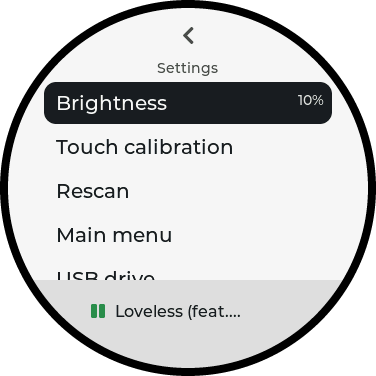
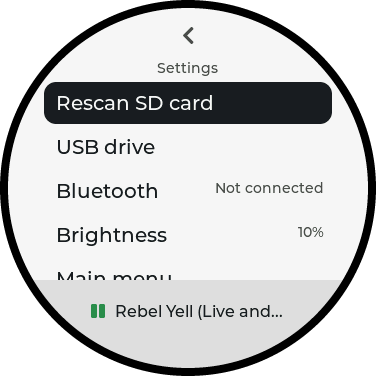
Order Settings by how often a row is wanted, and name what Rescan scans
Rescan SD card, USB drive, Bluetooth, Brightness, Main menu, Touch
calibration, About. "Rescan" alone did not say what it scans.

diff --git a/lib/ui/ScreenManagerMenu.cpp b/lib/ui/ScreenManagerMenu.cpp
@@ -249,33 +249,14 @@ void ScreenManager::goHome() {
 
 // Settings' rows. A table, so adding one never renumbers the handler for
 // the rows after it -- which is exactly what the two ADR 0018 rows would
-// otherwise have done to USB drive.
+// otherwise have done to USB drive. Ordered by how often a row is wanted:
+// the card first (rescan, copy over USB), then Bluetooth, then what is
+// set once; About last.
 const ScreenManager::SettingsRow
     ScreenManager::kSettingsRows[ScreenManager::kSettingsRowCount] = {
-        {"Brightness",
-         [](ScreenManager &self) {
-           self.tabs_.activeStack().push(Screen{ScreenKind::Brightness, {}});
-           self.render();
-         },
-         [](const ScreenManager &self) {
-           return std::to_string(self.brightness_.percent()) + "%";
-         }},
-        {"Touch calibration",
-         [](ScreenManager &self) {
-           self.touchCalibration_.start(millis());
-           self.tabs_.activeStack().push(
-               Screen{ScreenKind::TouchCalibration, {}});
-           self.render();
-         }},
-        {"Rescan",
+        {"Rescan SD card",
          [](ScreenManager &self) {
            self.tabs_.activeStack().push(Screen{ScreenKind::RescanPicker, {}});
-           self.render();
-         }},
-        {"Main menu",
-         [](ScreenManager &self) {
-           self.tabs_.activeStack().push(
-               Screen{ScreenKind::MenuVisibility, {}});
            self.render();
          }},
         {"USB drive", [](ScreenManager &self) { self.startUsbDrive(); }},
@@ -285,6 +266,27 @@ const ScreenManager::SettingsRow
            self.render();
          },
          [](const ScreenManager &self) { return self.bluetoothSettingsValue(); }},
+        {"Brightness",
+         [](ScreenManager &self) {
+           self.tabs_.activeStack().push(Screen{ScreenKind::Brightness, {}});
+           self.render();
+         },
+         [](const ScreenManager &self) {
+           return std::to_string(self.brightness_.percent()) + "%";
+         }},
+        {"Main menu",
+         [](ScreenManager &self) {
+           self.tabs_.activeStack().push(
+               Screen{ScreenKind::MenuVisibility, {}});
+           self.render();
+         }},
+        {"Touch calibration",
+         [](ScreenManager &self) {
+           self.touchCalibration_.start(millis());
+           self.tabs_.activeStack().push(
+               Screen{ScreenKind::TouchCalibration, {}});
+           self.render();
+         }},
         {"About", [](ScreenManager &self) { self.openAbout(); }},
 };
 

diff --git a/lib/ui/ScreenManager.cpp b/lib/ui/ScreenManager.cpp
@@ -608,7 +608,7 @@ std::vector<std::string> ScreenManager::letterKeysFor(
 const char *ScreenManager::emptyListText(const navigation::Screen &screen) const {
   if (screen.kind == ScreenKind::Bluetooth) return bluetoothEmptyText();
   if (screen.kind == ScreenKind::Folder) return "Empty folder";
-  if (library().tracks.empty()) return "Nothing scanned yet\nSettings > Rescan";
+  if (library().tracks.empty()) return "Nothing scanned yet\nSettings > Rescan SD card";
   switch (screen.kind) {
     case ScreenKind::Genres:
       return "No genres in these tags";
@@ -742,7 +742,7 @@ std::string ScreenManager::captionTextFor(
     case ScreenKind::Settings:
       return "Settings";
     case ScreenKind::RescanPicker:
-      return "Rescan";
+      return "Rescan SD card";
     case ScreenKind::MenuVisibility:
       return "Main menu";
     case ScreenKind::Bluetooth:

diff --git a/src/main.cpp b/src/main.cpp
@@ -436,7 +436,7 @@ void setup() {
                        static_cast<unsigned>(state.index.albums.size()),
                        static_cast<unsigned>(state.index.tracks.size()));
       } else {
-        Serial.printf("%s: no cache yet -- use Settings > Rescan to build one.\n",
+        Serial.printf("%s: no cache yet -- use Settings > Rescan SD card to build one.\n",
                        state.profile.label);
       }
     }

diff --git a/scripts/readme-screenshots.py b/scripts/readme-screenshots.py
@@ -222,8 +222,7 @@ def sleep_timer(dev):
 def settings(dev):
     dev.open_from_home("Settings", "Settings")
     dev.shot("settings")
-    dev.knob(5)  # Down to Bluetooth, which then sits in the bottom row.
-    dev.tap(150, 243)
+    dev.tap(150, 190)  # Bluetooth, the third row.
     dev.expect("Bluetooth")
     dev.shot("bluetooth")
 

diff --git a/docs/design/ux-guidelines.md b/docs/design/ux-guidelines.md
@@ -272,7 +272,7 @@ Full architecture: [ADR 0004](../adr/0004-navigation-library-and-index-architect
 - **Settings is a list; each setting has its own screen** when it's set by
   the knob. A row ends in its current value as plain text. Brightness
   applies live while turning, with no confirm step. Maintenance actions
-  (Rescan library) live here, not in content headers. The last row is
+  (Rescan SD card) live here, not in content headers. The last row is
   About: the version, the author, the source address, the licence, the
   no-warranty sentence and what leaves the device (nothing). Its one
   button, a Secondary circle, opens Licences: one row per component,

diff --git a/docs/adr/0010-main-menu-and-settings.md b/docs/adr/0010-main-menu-and-settings.md
@@ -80,6 +80,8 @@ serial; Settings > Touch calibration now re-fits it on the device. Rows:
 Brightness, Touch calibration, Rescan library. *(ADR 0018: the rows are a
 table now — Brightness, Touch calibration, Rescan, Main menu, USB drive —
 and "Rescan library" opens a picker rather than rescanning immediately.)*
+*(2026-10-06: ordered by how often a row is wanted -- Rescan SD card, USB
+drive, Bluetooth, Brightness, Main menu, Touch calibration, About.)*
 
 - **Capture.** Four accent crosses, one at a time, at top (180,70), right
   (290,180), bottom (180,290) and left (70,180) — never corners, which the

diff --git a/README.md b/README.md
@@ -410,7 +410,7 @@ Each collection is its own top-level folder, laid out
 
 A collection whose folder is missing simply shows up empty; hide it in
 Settings > Main menu if you do not want it on the home screen. Indexes are
-built on demand — Settings > Rescan, or automatically after a USB drive
+built on demand — Settings > Rescan SD card, or automatically after a USB drive
 session — never at boot, so the device is usable the moment it powers on.
 
 ## License
